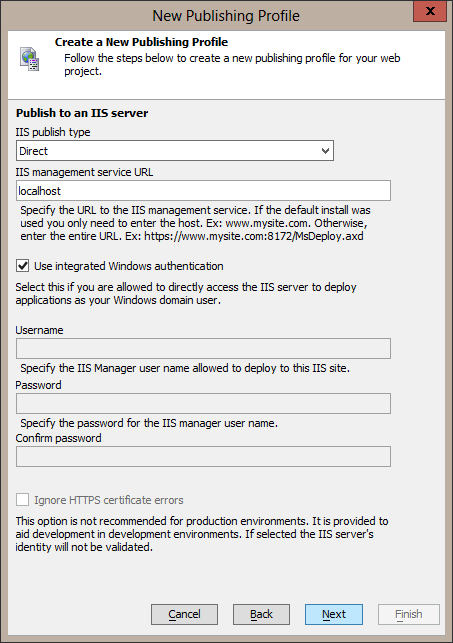
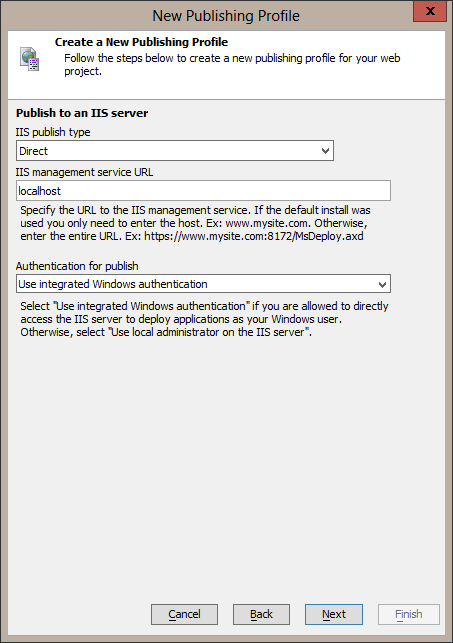
More

diff --git a/helpfiles/Guides/IIS/Create Publish Profile/index.html b/helpfiles/Guides/IIS/Create Publish Profile/index.html
@@ -90,9 +90,7 @@
 						https://www.mysite.com:8172/MsDeploy.axd.
 					</li>
 					<li>
-						<h3>Use integrated Windows authentication</h3>
-						Using the IIS management service requires an authenticated connection. Check this option to connect as the user
-						you are currently logged in as on the development machine. 
+						<h3>Authentication for publish</h3>
 						<a name="user-requirements">
 							<div class="sectionNote">The user that connects to the IIS management service <b>must</b> be a local machine 
 							administrator on the machine that the IIS server is installed on. Alpha Anywhere Application Server for IIS 
@@ -101,34 +99,51 @@
 							<a href="../Installation/index.xml#group_Publish Directly to IIS">Publish Directly to IIS</a> section in the 
 							Installation Guide for more details.</div>
 						</a>
-						<div class="sectionNote">When using integrated Windows authentication to publish to a local IIS server you must run 
-						Alpha Anywhere Developer Edition as administrator since this requires elevated privleges on the local system. To run
-						Alpha Anywhere Developer Edition with elevated privleges, right click on the Alpha Anywhere Developer Edition icon 
-						and select Run as Administrator.</div>
-					</li>
-					<li>
-						<h3>Username</h3>
-						Enter a user name that is a local machine administrator on the IIS server machine and is allowed to publish
-						to IIS (see <a href="#user-requirements">note above</a>) when integrated Windows authentication is not being used.
-					</li>
-					<li>
-						<h3>Password</h3>
-						Password for the above user name.
-					</li>
-					<li>
-						<h3>Confirm password</h3> 
-						Re-enter password.
-					</li>
-					<li>
-						<h3>Ignore HTTPS certificate errors</h3>
-						User credentails are passed to the IIS server using basic HTTP authetication. The connection is secured using HTTPS, 
-						but the default certificate that is used is a self-signed certificate which is typically not trusted. This will cause
-						publish authentication to fail unless a trusted certificate is set in the IIS management server configuration. 
-						Alternatively, check this option to ignore when a certificate is untrusted.
-						<div class="sectionWarning">
-						This option should only be selected when publishing to a non-production IIS server. A production IIS server should
-						have its IIS management service configured with an appropriate certificate.
-						</div>
+						<ul>
+							<li>
+								<h3>Use integrated Windows authentication</h3>
+								Using the IIS management service requires an authenticated connection. Check this option to connect as the user
+								you are currently logged in as on the development machine. 
+								<div class="sectionNote">When using integrated Windows authentication to publish to a local IIS server you must run 
+								Alpha Anywhere Developer Edition as administrator since this requires elevated privleges on the local system. To run
+								Alpha Anywhere Developer Edition with elevated privleges, right click on the Alpha Anywhere Developer Edition icon 
+								and select Run as Administrator.</div>
+							</li>
+							<li>
+								<h3>Use local administrator account on IIS server</h3>
+								<p>
+									<a href="images/iis-genie-1-local-account.png">
+										<img src="images/iis-genie-1-local-account.png" alt="IIS server local administrator account publish settings."></img>
+									</a>
+								</p>
+								<ul>
+									<li>
+										<h3>Username</h3>
+										Enter a user name that is a local machine administrator on the IIS server machine and is allowed to publish
+										to IIS (see <a href="#user-requirements">note above</a>) when integrated Windows authentication is not being used.
+									</li>
+									<li>
+										<h3>Password</h3>
+										Password for the above user name.
+									</li>
+									<li>
+										<h3>Confirm password</h3> 
+										Re-enter password.
+									</li>
+									<li>
+										<h3>Ignore HTTPS certificate errors</h3>
+										User credentails are passed to the IIS server using basic HTTP authetication. The connection is secured using HTTPS, 
+										but the default certificate that is used is a self-signed certificate which is typically not trusted. This will cause
+										publish authentication to fail unless a trusted certificate is set in the IIS management server configuration. 
+										Alternatively, check this option to ignore when a certificate is untrusted.
+										<div class="sectionWarning">
+										This option should only be selected when publishing to a non-production IIS server. A production IIS server should
+										have its IIS management service configured with an appropriate certificate.
+										</div>
+									</li>
+								</ul>
+							</li>
+						</ul>
 					</li>
 				</ul>
 			</li>
@@ -313,12 +328,32 @@
 						This example has an element that defines a <a href="#custom-namespace">namespace</a> by using the 
 						<span class="HTML1">xmlns</span> attribute. The namespace must be defined 
 						with a prefix name in order to be able to write an XPath that will find this element. The prefix name can be anything
-						and is only used by the XPath expression. In this example, the prefix MyNlog is defined for the 
+						and is only used by the XPath expression. In this example, the prefix <em>myNlog</em> is defined for the 
 						<span class="Code1">http://www.nlog-project.org/schemas/NLog.xsd</span> namespace and the prefix is subsequently
 						used in the <span class="Code1">/configuration/myNlog:nlog</span> XPath. A namespace only needs to be defined
 						with a prefix if it is needed in an XPath.
 						</li>
 					</ol>
+					</li>
+				</ul>
+			</li>
+			<li>
+			Application Pool
+				<p>
+					<a href="images/iis-genie-3.png">
+						<img id="iis-genie-3" src="images/iis-genie-3.png" alt="Application pool settings."></img>
+					</a>
+				</p>
+				<ul>
+					<li>
+						<h3>Application pool type</h3>
+					</li>
+					<li>
+						<p>
+							<a href="images/iis-genie-3-custom.png">
+								<img id="iis-genie-3-custom" src="images/iis-genie-3-custom.png" alt="Application pool settings - custom."></img>
+							</a>
+						</p>
 					</li>
 				</ul>
 			</li>

diff --git a/helpserver/assets/theme.css b/helpserver/assets/theme.css
@@ -57,6 +57,12 @@ a img {
     max-width:100%;
 }
 
+img:hover {
+	background-image: url("images/up.svg");
+	background-image-height: 2em;
+	background-image-width: 2em;
+	
+}
 .highlightword {color: red;}
 
 .searchHighlight {color: red;}
